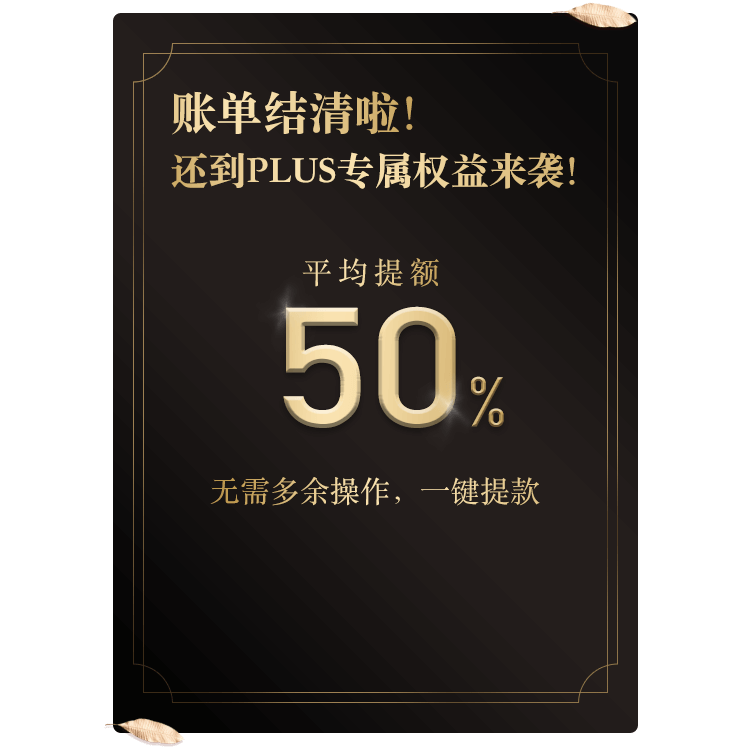
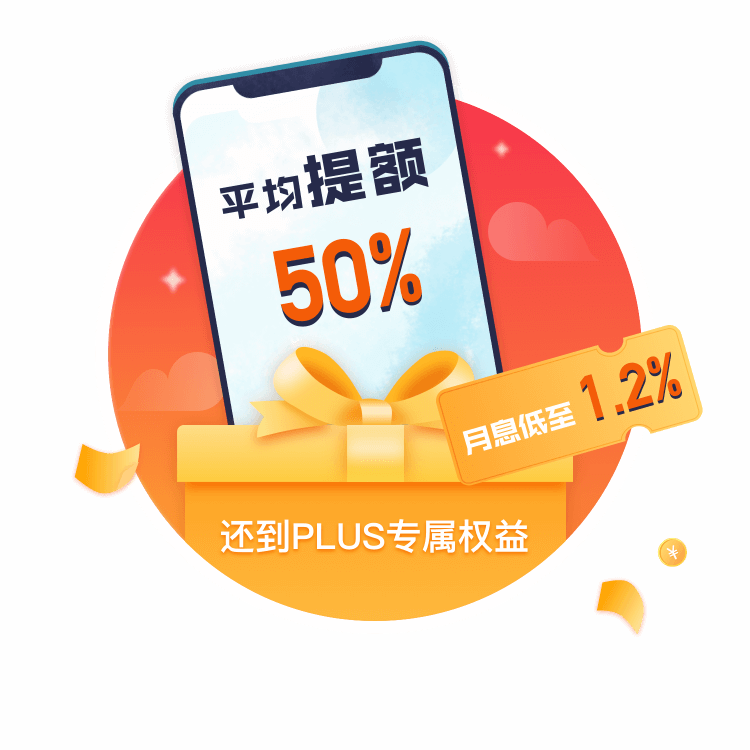
替换结清弹窗图片

diff --git a/src/pages/order/repayment_succ_page/index.scss b/src/pages/order/repayment_succ_page/index.scss
@@ -59,8 +59,8 @@
 		.modal_btn {
 			position: relative;
 			margin: 0 auto;
-			top: 560px;
-			width: 351px;
+			top: 660px;
+			width: 420px;
 			height: 90px;
 			background-image: url('../../../assets/images/order/modal_btn.png');
 			background-size: 100% 100%;
